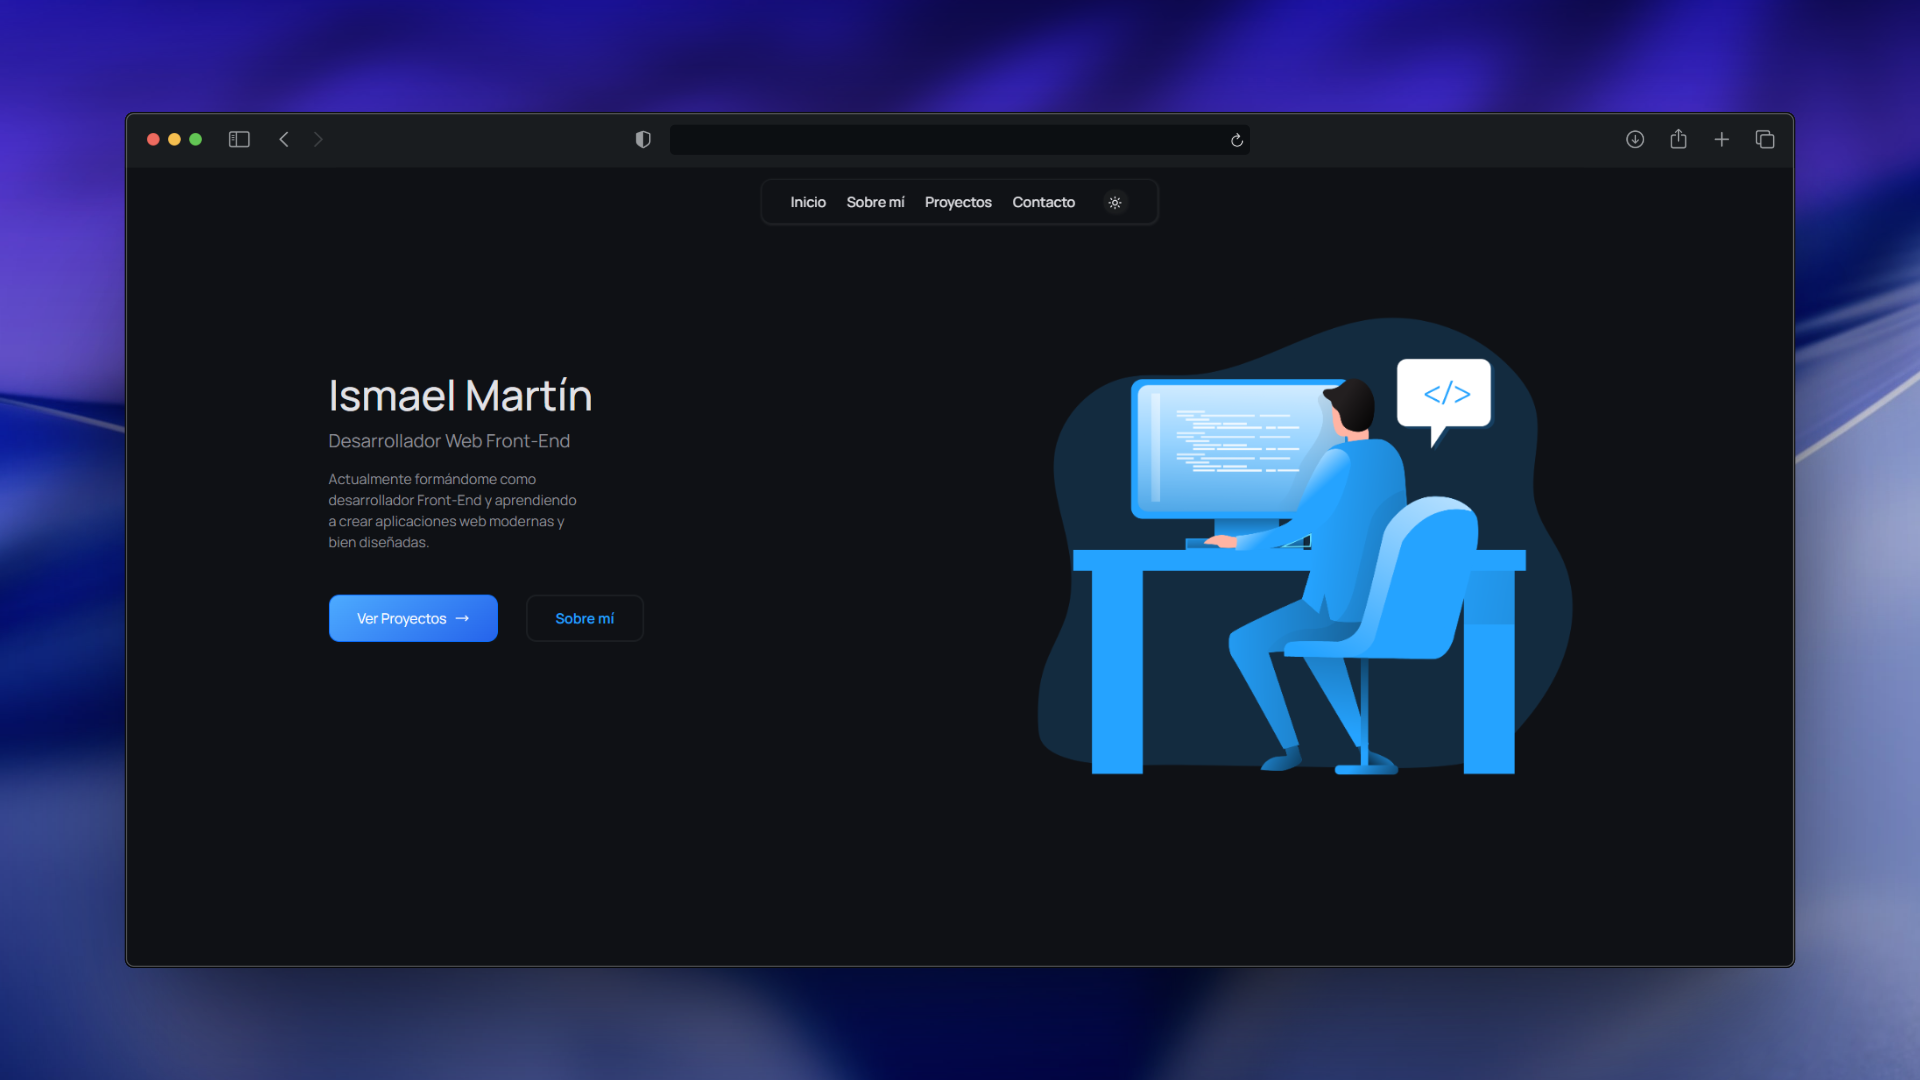
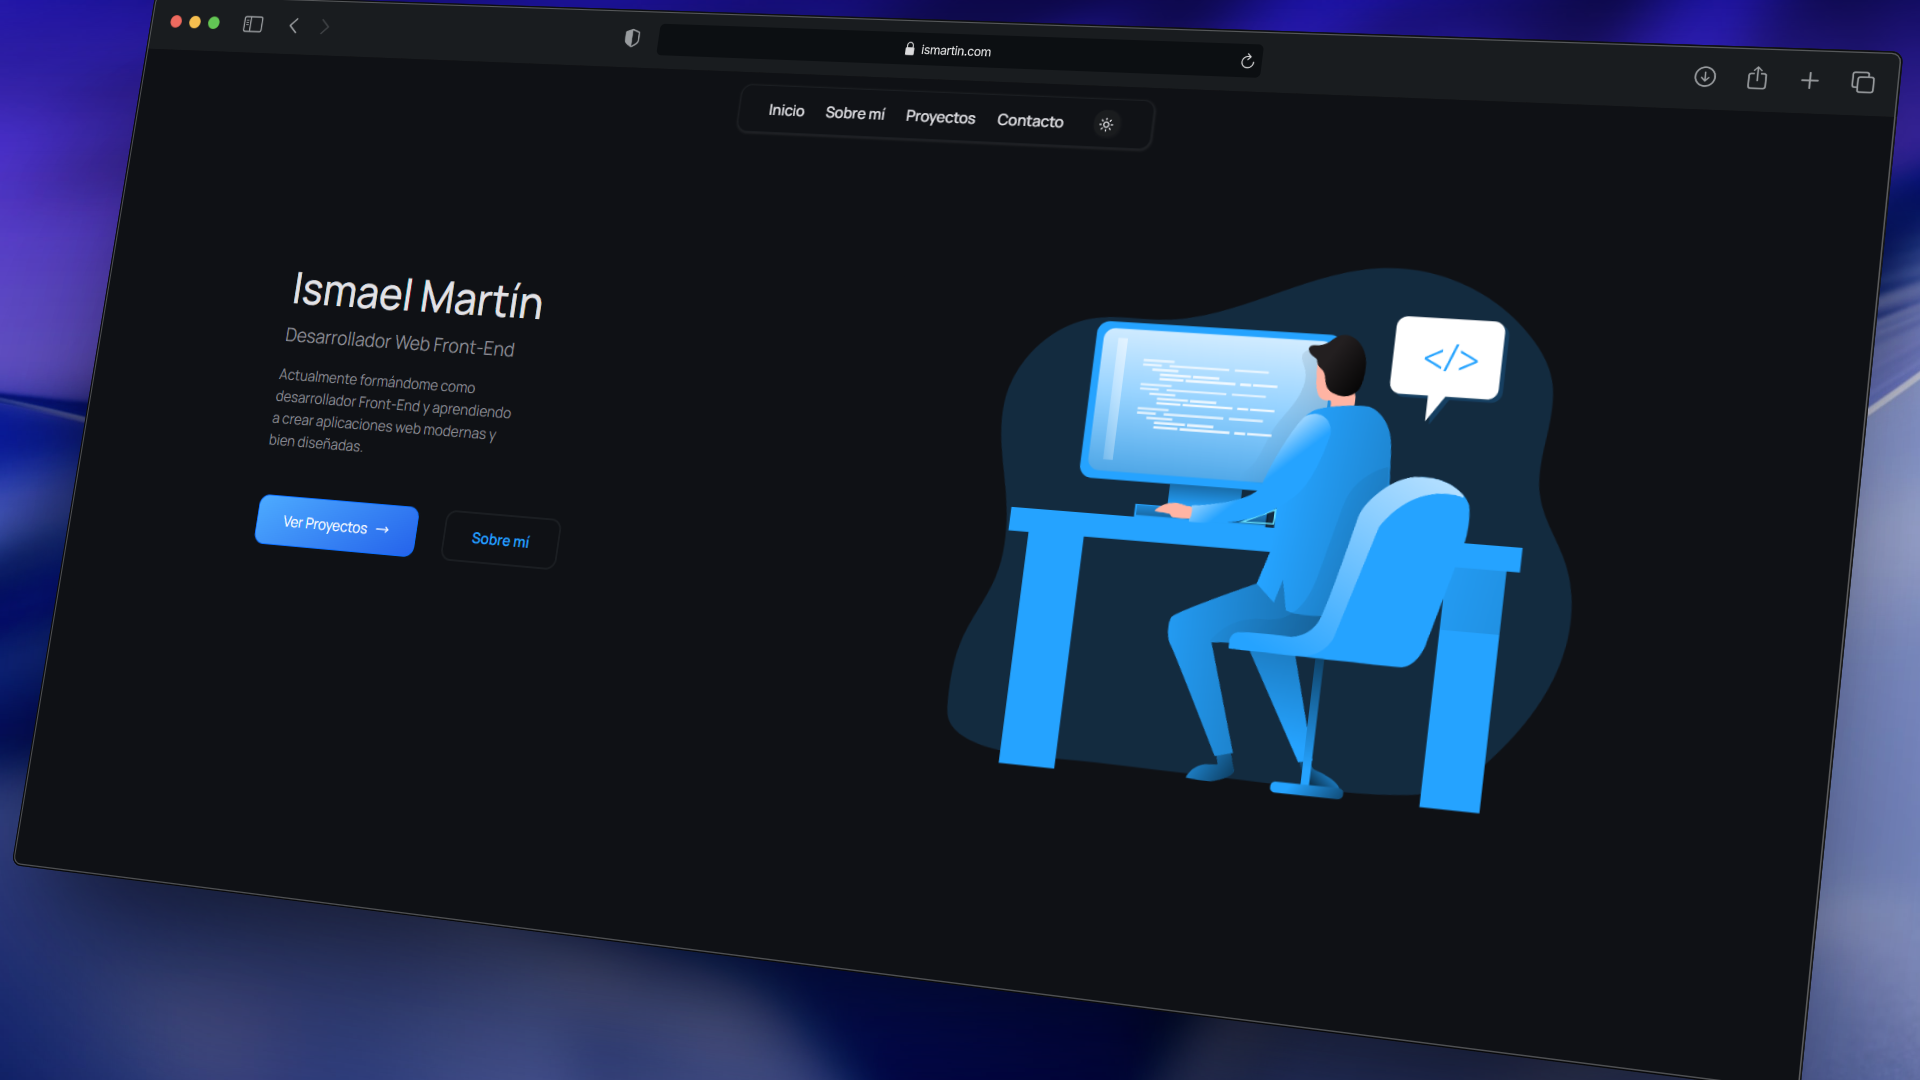
feat(meta): actualizar metadatos Open Graph con nueva imagen para mejorar la compartición

diff --git a/index.html b/index.html
@@ -17,7 +17,8 @@
     <link rel="stylesheet" href="./css/footer.css">
     <meta property="og:title" content="Portfolio | Desarrollador Web en formación">
     <meta property="og:description" content="Portfolio de Ismael Martín, desarrollador Web Front-End en formación">
-    <meta property="og:image" content="./img/portfolio-preview.png">
+    <meta property="og:image"
+        content="https://cdn.jsdelivr.net/gh/Fi12infor/porfolio@main/public/portfolio-preview.png">
     <meta property="og:url" content="https://fi12infor.github.io/porfolio/">
 </head>
 
